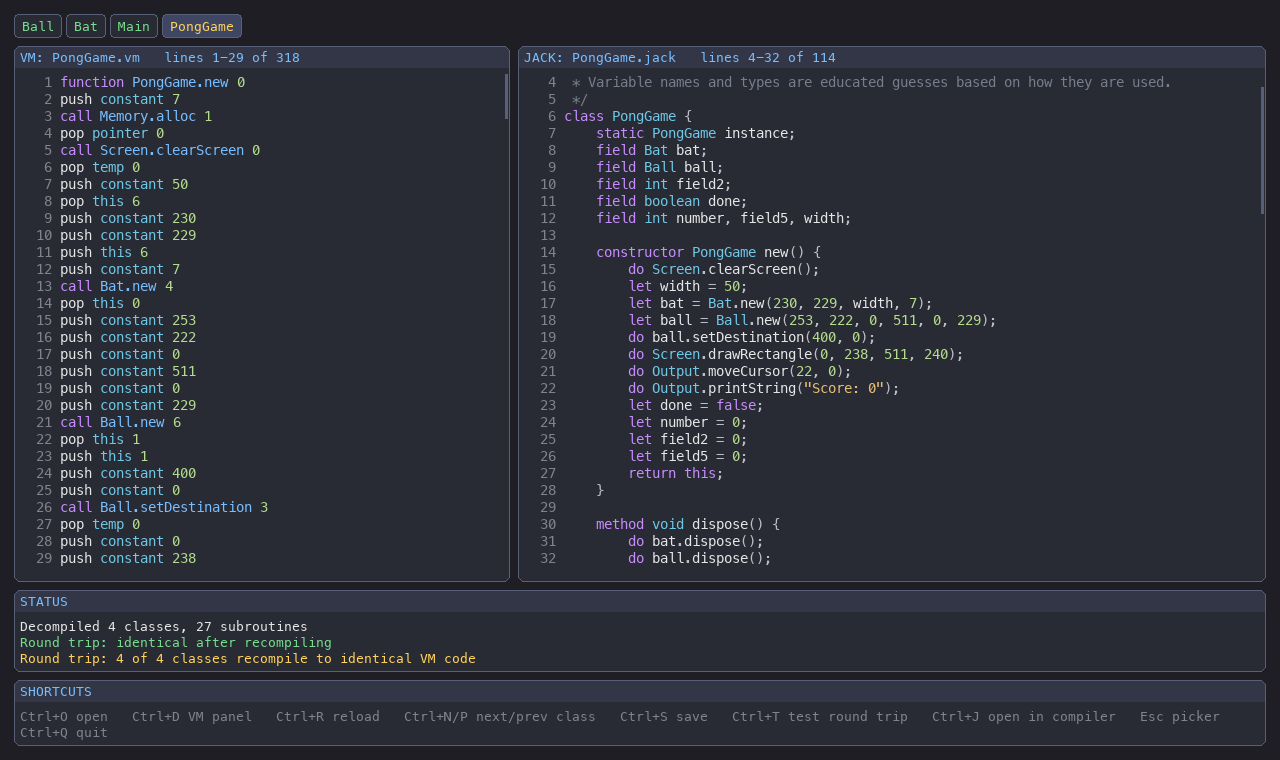
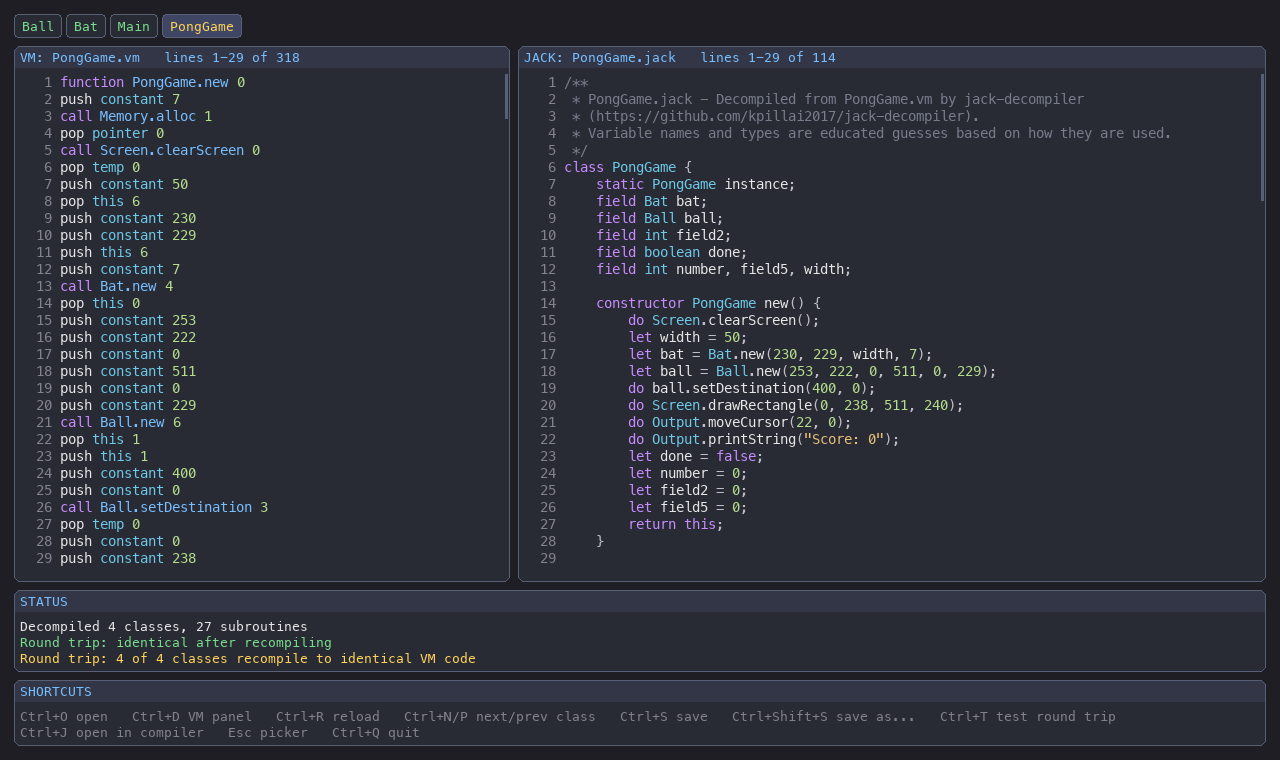
Save as: make a new folder from the chooser; refresh screenshot
- In the save-as folder chooser, Ctrl+N or the New folder button starts
  naming a folder; Enter (or Create) makes it inside the folder shown and
  selects it, Esc stops. Bad names (empty, / or \, ., .., hidden) and
  existing files are refused with a message.
- PickerState gains start_new_folder(), type_name(), erase_name(),
  cancel_new_folder() and create_folder(); folder_name_problem() checks names.
- docs/screenshot.png regenerated with the new shortcuts, plus
  docs/save-as.png, shown in the README.

diff --git a/jack_decompiler/gui/picker.py b/jack_decompiler/gui/picker.py
@@ -21,6 +21,8 @@ The same class also chooses WHERE to save the .jack files (Ctrl+Shift+S,
 "save as"): `PickerState(folder, purpose=SAVE)` lists only folders; Enter
 opens one, and Ctrl+Enter / "[save here]" / the "Save here" button picks
 the selected folder (or the one being shown) - see choose_save_folder().
+Ctrl+N / "New folder" makes a folder: type its name, Enter creates it
+(see create_folder()), Esc stops.
 """
 
 from __future__ import annotations
@@ -33,6 +35,22 @@ from ..vm_reader import vm_files_in
 
 PAGE = 15  # rows moved by PgUp / PgDn
 OPEN, SAVE = "open", "save"  # what a PickerState chooses: a program, or a folder to save into
+
+
+NAME_LIMIT = 100  # longest folder name the "New folder" box takes
+
+
+def folder_name_problem(name: str) -> str:
+    """Why `name` can't be a new folder ("" if it can)."""
+    if not name:
+        return "Type a name for the new folder"
+    if "/" in name or "\\" in name or "\0" in name:
+        return "A folder name can't contain / or \\"
+    if name in (".", ".."):
+        return f"{name} isn't a folder name"
+    if name.startswith("."):
+        return "Names starting with . are hidden here - choose another"
+    return ""
 
 
 @dataclass(frozen=True)
@@ -83,6 +101,7 @@ class PickerState:
 
     def __init__(self, directory: Path, purpose: str = OPEN):
         self.purpose = purpose
+        self.naming: Optional[str] = None  # the new folder's name while it's being typed (SAVE only)
         self.message = ""
         self.entries: List[Entry] = []
         self.selected = 0
@@ -166,6 +185,50 @@ class PickerState:
             self.message = f"No .vm files in {folder.name or folder}/"
             return None
         return files
+
+    # --- "New folder" (save mode): name a folder, then create it -------------
+    def start_new_folder(self) -> None:
+        """Ctrl+N / the "New folder" button: start typing a name."""
+        self.naming = ""
+        self.message = ""
+
+    def type_name(self, text: str) -> None:
+        if self.naming is not None:
+            self.naming = (self.naming + text.replace("\n", "").replace("\r", ""))[:NAME_LIMIT]
+
+    def erase_name(self) -> None:
+        if self.naming:
+            self.naming = self.naming[:-1]
+
+    def cancel_new_folder(self) -> None:
+        self.naming = None
+        self.message = ""
+
+    def create_folder(self) -> Optional[Path]:
+        """
+        Make the typed folder in the folder being shown and select it.
+        Returns its path, or None (with self.message saying why; typing goes on).
+        An existing folder of that name is simply selected.
+        """
+        if self.naming is None:
+            return None
+        name = self.naming.strip()
+        problem = folder_name_problem(name)
+        folder = self.directory / name
+        if not problem and folder.exists() and not folder.is_dir():
+            problem = f"There's already a file called {name}"
+        if not problem:
+            try:
+                folder.mkdir(exist_ok=True)
+            except OSError as error:
+                problem = f"Can't make {name}/: {error.strerror or error}"
+        if problem:
+            self.message = problem
+            return None
+        self.naming = None
+        self.message = ""
+        self.change_directory(self.directory, select=folder)  # list it, selected
+        return folder
 
     def choose_save_folder(self, index: Optional[int] = None, here: bool = False) -> Path:
         """Save as: the selected folder row (or, with here=True or on "..", the folder being shown)."""

diff --git a/jack_decompiler/gui/app.py b/jack_decompiler/gui/app.py
@@ -26,7 +26,8 @@ Hold Ctrl (or Cmd on a Mac) for the shortcuts, as in jackvm:
 In the picker: Enter opens/decompiles, Ctrl+Enter decompiles the folder,
 Backspace/Left goes up, Right goes in, Esc goes back (or quits).
 In the "save as" folder chooser: Enter opens a folder, Ctrl+Enter (or
-"[save here]" / the "Save here" button) saves there, Esc goes back.
+"[save here]" / the "Save here" button) saves there, Ctrl+N (or "New
+folder") makes a folder - type its name, Enter creates it - and Esc goes back.
 
 All the decisions live in picker.py and viewer.py; this file only draws
 them and turns events into method calls.
@@ -134,6 +135,9 @@ class App(Painter):
             if self.mode == "picker":
                 return self.picker_key(event)
             return self.save_key(event) if self.mode == "save" else self.viewer_key(event)
+        if event.type == pygame.TEXTINPUT and self.mode == "save" and self.save_picker:
+            self.save_picker.type_name(event.text)  # ignored unless a new folder is being named
+            return KEEP
         if event.type == pygame.MOUSEBUTTONDOWN and event.button == 1:
             return self.click(event.pos)
         if event.type == pygame.MOUSEWHEEL and self.mode == "viewer" and self.viewer:
@@ -174,6 +178,12 @@ class App(Painter):
         self._update_caption()
         return KEEP
 
+    def start_new_folder(self) -> bool:
+        """Ctrl+N / "New folder" in the folder chooser: type a name, Enter creates it."""
+        self.save_picker.start_new_folder()
+        pygame.key.start_text_input()  # so typing arrives as TEXTINPUT events
+        return KEEP
+
     def save_into(self, folder: Path) -> bool:
         """The folder chooser picked `folder`: save there and go back to the program."""
         if self.viewer is not None:
@@ -204,6 +214,16 @@ class App(Painter):
     def save_key(self, event) -> bool:
         """Keys in the "save as" folder chooser."""
         p, key, ctrl = self.save_picker, event.key, is_ctrl(event.mod)
+        if p.naming is not None:  # typing a new folder's name (the text comes as TEXTINPUT)
+            if key == pygame.K_ESCAPE:
+                p.cancel_new_folder()
+            elif key in (pygame.K_RETURN, pygame.K_KP_ENTER):
+                p.create_folder()
+            elif key == pygame.K_BACKSPACE:
+                p.erase_name()
+            return KEEP
+        if ctrl and key == pygame.K_n:
+            return self.start_new_folder()
         if key == pygame.K_ESCAPE:
             return self.leave_save_picker()
         if key in (pygame.K_RETURN, pygame.K_KP_ENTER):
@@ -284,6 +304,10 @@ class App(Painter):
                     self.open_program(files)
             elif action == "save-entry":
                 return self.save_into(self.save_picker.choose_save_folder(index))
+            elif action == "new-folder":
+                if self.save_picker.naming is None:
+                    return self.start_new_folder()
+                self.save_picker.create_folder()
             elif action == "save-here":
                 return self.save_into(self.save_picker.choose_save_folder(here=True))
             elif action == "decompile-entry":

diff --git a/tests/test_gui.py b/tests/test_gui.py
@@ -297,3 +297,67 @@ def test_cli_passes_the_output_folder_to_the_gui(games, monkeypatch):
     assert main_module.main(["-o", str(out)]) == 0  # no .vm files: the GUI, saving in out/
     assert seen[-1] == ([], {"rename_functions": True, "output_folder": out, "force": False})
     assert not out.exists()
+
+
+# --- "New folder" in the save-as chooser ---------------------------------------------
+def test_picker_new_folder_rules(games):
+    from jack_decompiler.gui.picker import SAVE, folder_name_problem
+
+    assert folder_name_problem("out") == ""
+    for bad in ("", "a/b", "a\\b", ".", "..", ".hidden"):
+        assert folder_name_problem(bad), bad
+    p = PickerState(games, purpose=SAVE)
+    assert p.create_folder() is None  # not naming: nothing happens
+    p.start_new_folder()
+    p.type_name("a/b")
+    assert p.create_folder() is None and "can't contain" in p.message and p.naming == "a/b"  # keep typing
+    for _ in range(3):
+        p.erase_name()
+    p.type_name(" jack out ")
+    assert p.create_folder() == games / "jack out" and (games / "jack out").is_dir()
+    assert p.naming is None and p.current.path == games / "jack out"
+    p.start_new_folder()
+    p.type_name("jack out")
+    assert p.create_folder() == games / "jack out"  # already there: just selected
+    (games / "afile").write_text("")
+    p.start_new_folder()
+    p.type_name("afile")
+    assert p.create_folder() is None and "already a file" in p.message
+    p.cancel_new_folder()
+    assert p.naming is None and p.message == ""
+
+
+def test_app_new_folder_by_keys_then_save(games):
+    app = App([games / "pong"], window_size=(1000, 700))
+    press(app, pygame.K_s, CTRL | SHIFT)
+    press(app, pygame.K_n, CTRL)
+    assert app.save_picker.naming == ""
+    app.handle(pygame.event.Event(pygame.TEXTINPUT, text="jackx"))
+    press(app, pygame.K_BACKSPACE)  # edits the name, doesn't go up
+    assert app.save_picker.naming == "jack" and app.save_picker.directory == (games / "pong").resolve()
+    app.draw()
+    press(app, pygame.K_ESCAPE)  # Esc stops naming, stays in the chooser
+    assert app.mode == "save" and app.save_picker.naming is None
+    press(app, pygame.K_n, CTRL)
+    app.handle(pygame.event.Event(pygame.TEXTINPUT, text="src"))
+    press(app, pygame.K_RETURN)
+    new = (games / "pong" / "src").resolve()
+    assert new.is_dir() and app.save_picker.current.path == new and app.mode == "save"
+    press(app, pygame.K_RETURN, CTRL)  # save in the new (selected) folder
+    assert (new / "Ball.jack").is_file() and app.mode == "viewer"
+
+
+def test_app_new_folder_button(games):
+    app = App([games / "pong"], window_size=(1000, 700))
+    press(app, pygame.K_s, CTRL | SHIFT)
+
+    def click(action):
+        app.draw()
+        rect = next(r for r, a, _ in app.hit if a == action)
+        app.handle(pygame.event.Event(pygame.MOUSEBUTTONDOWN, button=1, pos=rect.center))
+
+    click("new-folder")
+    assert app.save_picker.naming == ""
+    app.handle(pygame.event.Event(pygame.TEXTINPUT, text="out"))
+    click("new-folder")  # now "Create"
+    assert (games / "pong" / "out").is_dir() and app.save_picker.naming is None

diff --git a/jack_decompiler/gui/drawing.py b/jack_decompiler/gui/drawing.py
@@ -167,6 +167,9 @@ class Painter:
             help_items = list(theme.SAVE_HELP)
             status = [(f"Choose the folder to save {count} .jack file{'s' if count != 1 else ''} in", "normal"),
                       (f"Save here: {p.directory}", "dim")]
+            if p.naming is not None:
+                status = [(f"New folder: {p.naming}_", "title"),
+                          (p.message, "error") if p.message else ("Enter: create   Esc: cancel", "dim")]
         else:
             back = "back to program" if self.viewer else "quit"
             help_items = [item.format(back=back) for item in theme.PICKER_HELP]
@@ -203,7 +206,8 @@ class Painter:
         self.window.set_clip(previous)
 
         if saving:
-            buttons = (("Save here", "save-here", True), ("Back", "back", True))
+            buttons = (("Save here", "save-here", True), ("Back", "back", True),
+                       ("Create" if p.naming is not None else "New folder", "new-folder", True))
         else:
             count = p.current_folder_vm_count()
             label = f"Decompile this folder ({count} .vm)" if count else "Decompile this folder"

diff --git a/jack_decompiler/gui/theme.py b/jack_decompiler/gui/theme.py
@@ -37,8 +37,8 @@ VIEWER_HELP = ["Ctrl+O open", "Ctrl+D VM panel", "Ctrl+R reload", "Ctrl+N/P next
                "Ctrl+Shift+S save as...", "Ctrl+T test round trip", "Ctrl+J open in compiler", "Esc picker", "Ctrl+Q quit"]
 PICKER_HELP = ["Enter: open", "Ctrl+Enter: decompile folder", "Backspace: up", "Right: into folder",
                "Esc: {back}", "Ctrl+Q: quit"]
-SAVE_HELP = ["Enter: open folder", "Ctrl+Enter: save in selected folder", "Backspace: up", "Right: into folder",
-             "Esc: back to program", "Ctrl+Q: quit"]
+SAVE_HELP = ["Enter: open folder", "Ctrl+Enter: save in selected folder", "Ctrl+N: new folder", "Backspace: up",
+             "Right: into folder", "Esc: back to program", "Ctrl+Q: quit"]
 FONT_NAMES = "menlo,consolas,dejavusansmono,couriernew,monospace"
 UI_FONT_SIZE = 13
 CODE_FONT_SIZE = 14

diff --git a/README.md b/README.md
@@ -118,9 +118,12 @@ To save somewhere else, start with `-o FOLDER` (e.g. `jackdecomp -o out/`
 or `jackdecomp --gui games/pong -o out/`), or press **Ctrl+Shift+S** and
 choose a folder: **Enter** opens a folder, and `[save here]` next to a
 folder, **Ctrl+Enter**, or the *Save here* button saves there (**Esc** goes
-back without saving). After that, Ctrl+S and Ctrl+J save in that folder too.
+back without saving). To make a folder, press **Ctrl+N** (or *New folder*),
+type its name and press **Enter**: it's created and selected. After that, Ctrl+S and Ctrl+J save in that folder too.
 Hand-written `.jack` files are never overwritten there either (unless you
 started with `-o FOLDER --force`).
+
+![The "save as" folder chooser: folders with [save here] next to them, and a new folder being named](docs/save-as.png)
 
 ### Opening it from jackvm (Ctrl+U)
 
